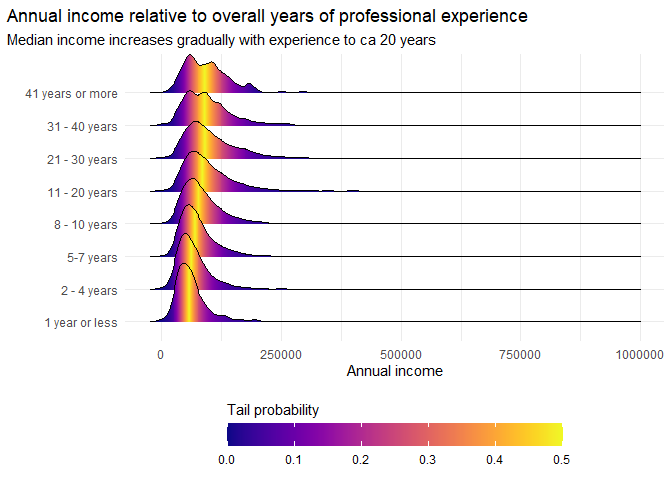
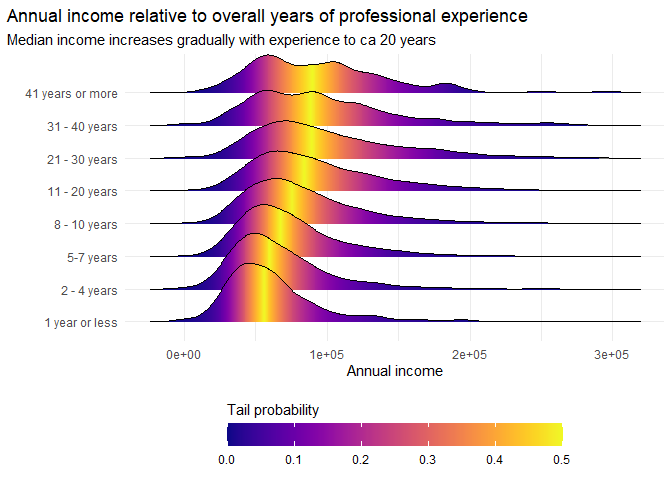
ggfx

diff --git a/2021-05-18/readme.md b/2021-05-18/readme.md
@@ -93,7 +93,7 @@ ylev <- c("1 year or less", "2 - 4 years", "5-7 years", "8 - 10 years", "11 - 20
 
 
 dat <- surv %>%
-  filter(annual_salary < 1000000) %>%
+  filter(annual_salary < 300000) %>%
   mutate(years_of_experience_in_field = factor(years_of_experience_in_field,
                                                ylev, ylev),
          overall_years_of_professional_experience = factor(overall_years_of_professional_experience,
@@ -165,9 +165,73 @@ p2 <- dat %>%
 p2
 ```
 
-    ## Picking joint bandwidth of 8270
+    ## Picking joint bandwidth of 8040
 
 ![](readme_files/figure-gfm/Visualize-1.png)<!-- -->
+
+``` r
+library(ggfx)
+
+cols <- c("lightblue", "pink")
+
+m <- dat %>%
+  filter(gender %in% c("Man")) %>%
+  ggplot(aes(x = annual_salary)) +
+  as_reference(
+    geom_histogram(fill = cols[1], col = cols[1]),
+    id = "hist") +
+  with_blend(
+    geom_text(aes(x = 150000, y = 200, label = "Men"), col = cols[1], size = 50),
+    bg_layer = "hist",
+    blend_type = "xor"
+    ) +
+  theme_minimal() +
+  theme(plot.background = element_rect(fill = cols[2], colour = cols[2]),
+        panel.background = element_rect(fill = cols[2], colour = cols[2]),
+        axis.line = element_blank(),
+        axis.text = element_blank(),
+        axis.title = element_blank(),
+        axis.ticks = element_blank(),
+        panel.grid = element_blank(), 
+        panel.border = element_blank(), 
+        plot.margin = unit(c(1,1,1,1), "mm"))
+
+
+cols <- rev(cols)
+
+f <- dat %>%
+  filter(gender %in% c("Woman")) %>%
+  ggplot(aes(x = annual_salary)) +
+  as_reference(
+    geom_histogram(fill = cols[1], col = cols[1]),
+    id = "hist") +
+  with_blend(
+    geom_text(aes(x = 150000, y = 1200, label = "Women"), col = cols[1], size = 50),
+    bg_layer = "hist",
+    blend_type = "xor"
+    ) +
+  theme_minimal() +
+  theme(plot.background = element_rect(fill = cols[2], colour = cols[2]),
+        panel.background = element_rect(fill = cols[2], colour = cols[2]),
+        axis.line = element_blank(),
+        axis.text = element_blank(),
+        axis.title = element_blank(),
+        axis.ticks = element_blank(),
+        panel.grid = element_blank(), 
+        panel.border = element_blank(), 
+        plot.margin = unit(c(1,1,1,1), "mm"))
+
+
+library(patchwork)
+
+m / f
+```
+
+    ## `stat_bin()` using `bins = 30`. Pick better value with `binwidth`.
+
+    ## `stat_bin()` using `bins = 30`. Pick better value with `binwidth`.
+
+![](readme_files/figure-gfm/Visualize-2.png)<!-- -->
 
 # Save Image
 
@@ -183,4 +247,5 @@ ggsave(
 
     ## Saving 7 x 5 in image
 
-    ## Picking joint bandwidth of 8270
+    ## `stat_bin()` using `bins = 30`. Pick better value with `binwidth`.
+    ## `stat_bin()` using `bins = 30`. Pick better value with `binwidth`.
